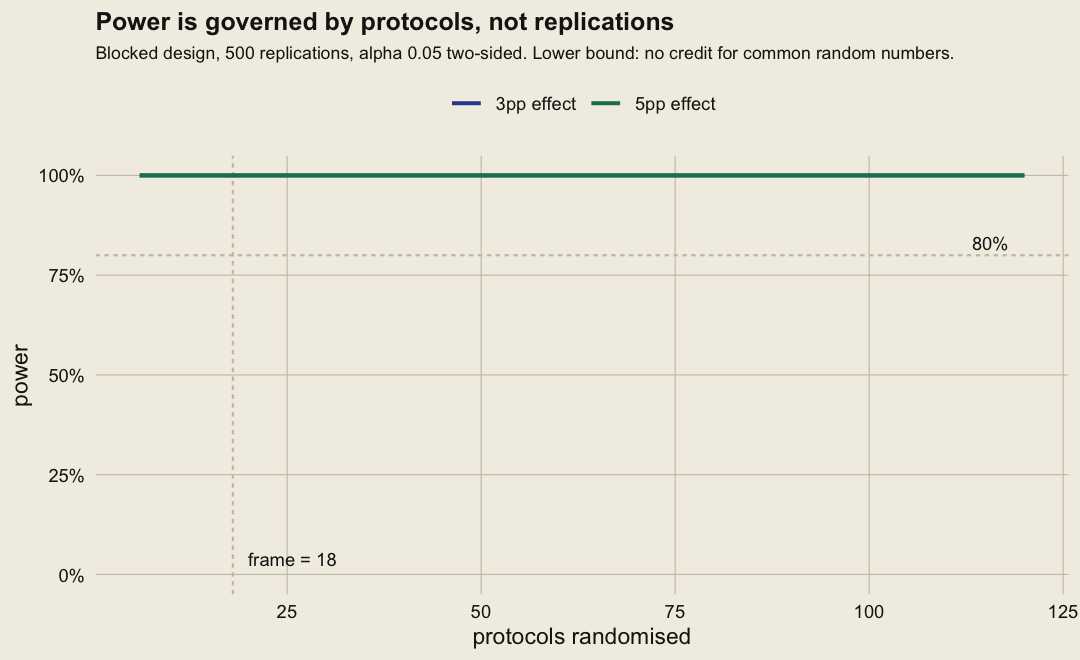
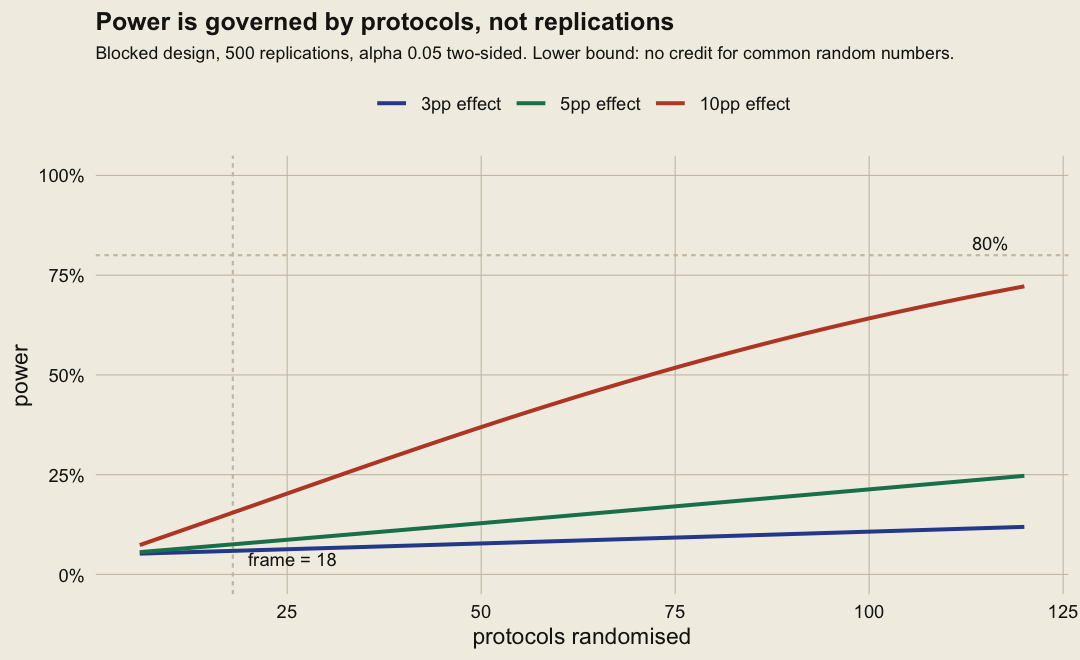
Pilot and power at the frozen implementation: the 5pp MDE is out of reach at 18 protocols
The 20-replication control pilot puts the stockout proportion at 0.40 with a
blocked between-protocol SD of 0.21. Power for the pre-specified 5pp effect is
0.075 at 18 protocols; 574 are needed. The §8 contingency is triggered and the
decision is left open in EXPERIMENT.md §13. The forecast comparison at the same
implementation is added to METHODOLOGY §2.4b, and the power chart draws its
10pp line again.

diff --git a/docs/METHODOLOGY.md b/docs/METHODOLOGY.md
@@ -335,10 +335,25 @@ as one lot expiring after the horizon:
 | rung | 0.0050 | 0.0724 | 60 (10) | 10,605 |
 | oracle (ceiling) | 0.0004 | 0.0051 | 2 (2) | 11,556 |
 
+At the implementation the experiment freezes (`ce00c79`: stock expiring within
+the lead time left out of the reorder position, the depot as four lots expiring
+24–60 months after the as-of date), five replications:
+
+| Forecast | P(stockout), fixed dose | P(stockout), titrating | Stockout units (sd) | Reorders | Expired units (sd) |
+|---|---|---|---|---|---|
+| trailing | 0.0932 | 0.7268 | 2,333 (57) | 12,331 | 669,517 (12,413) |
+| rung | 0.0034 | 0.1151 | 143 (11) | 11,519 | 515,539 (7,467) |
+| oracle (ceiling) | 0.0006 | 0.0038 | 1 (1) | 12,349 | 408,556 (6,103) |
+
+Once lots can expire, the trailing forecast loses more: seed stock at sites that
+seldom dispense a DU expires, and a forecast with no recent demand for that DU
+does not replace it (EXPERIMENT.md §4). The rung forecast also expires 23% fewer
+units than the trailing forecast.
+
 P(stockout) is the share of a protocol's site × DUs with at least one stockout,
-averaged over protocols. The rung forecast closes 94% of the gap in stockout
-units between the trailing forecast and the oracle, with 1% fewer reorders than
-the trailing forecast. This is a comparison on every protocol, not the
+averaged over protocols. In the first table the rung forecast closes 94% of the
+gap in stockout units between the trailing forecast and the oracle, with 1%
+fewer reorders; in the second, 94% again, with 7% fewer. This is a comparison on every protocol, not the
 randomised experiment in `EXPERIMENT.md`; it is what motivates it.
 
 ### 2.5 Outputs

diff --git a/docs/EXPERIMENT.md b/docs/EXPERIMENT.md
@@ -294,3 +294,30 @@ Every result row carries `rep_seed`, `assign_seed`, `arm`, `protocol`, `site`,
   2026-09-24: option (a) of `docs/remaining-work-plan-2026-09-24.md` §7). The
   safety-stock allocation question is not tested here; it could be a later
   experiment with both arms on whichever forecast wins this one.
+
+---
+
+## 13. Power, computed before the confirmatory run (2026-09-24)
+
+From the control-arm pilot at `ce00c79` (`scripts/power_pilot.R`, 20
+replications, 18 protocols) and `scripts/power_curve.R`:
+
+| | |
+|---|---|
+| Mean stockout proportion, control | 0.403 (fixed dose 0.092, titrating 0.714) |
+| Between-protocol SD | 0.381; 0.213 with titration status blocked |
+| Within-protocol SD per replication | 0.048 (0.002 over 500 replications) |
+| Power for the 5pp MDE at 18 protocols | 0.058 unblocked, 0.075 blocked |
+| Protocols needed for 80% power | 1,828 unblocked, 574 blocked |
+| Smallest effect detectable at 18 protocols, blocked | 30pp |
+
+**The §8 contingency is triggered.** Power at 18 protocols is far below 80% for
+the pre-specified 5pp effect. §8 commits to expanding the frame to the *n* that
+reaches 80%, which is about 574 protocols blocked. The chart is
+`docs/assets/power_curve.png`.
+
+**Decision pending (Rafael).** The confirmatory run does not start until one is
+recorded here. Before choosing, note that the unrandomised comparison on every
+protocol (METHODOLOGY §2.4b) has already been seen: at this implementation it
+put the trailing forecast at 0.41 and the rung forecast at 0.06, a gap of about
+35pp. An MDE restated after that is informed by it, and would be labelled so.
